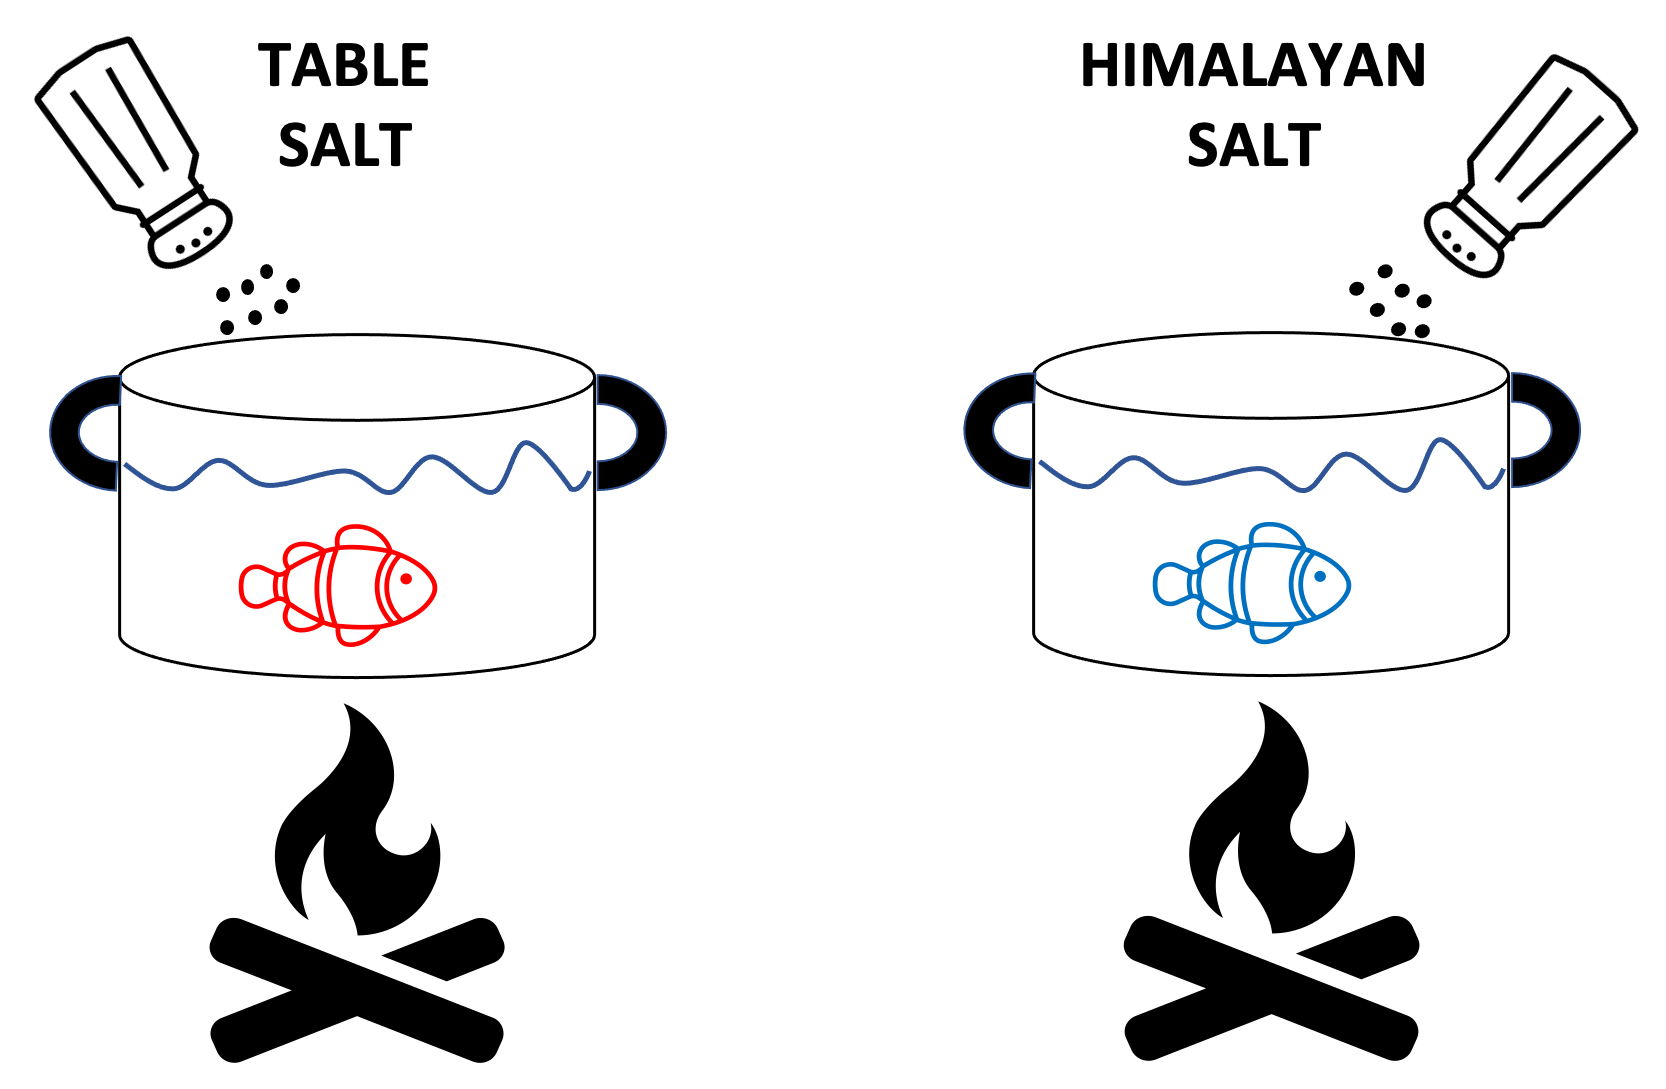
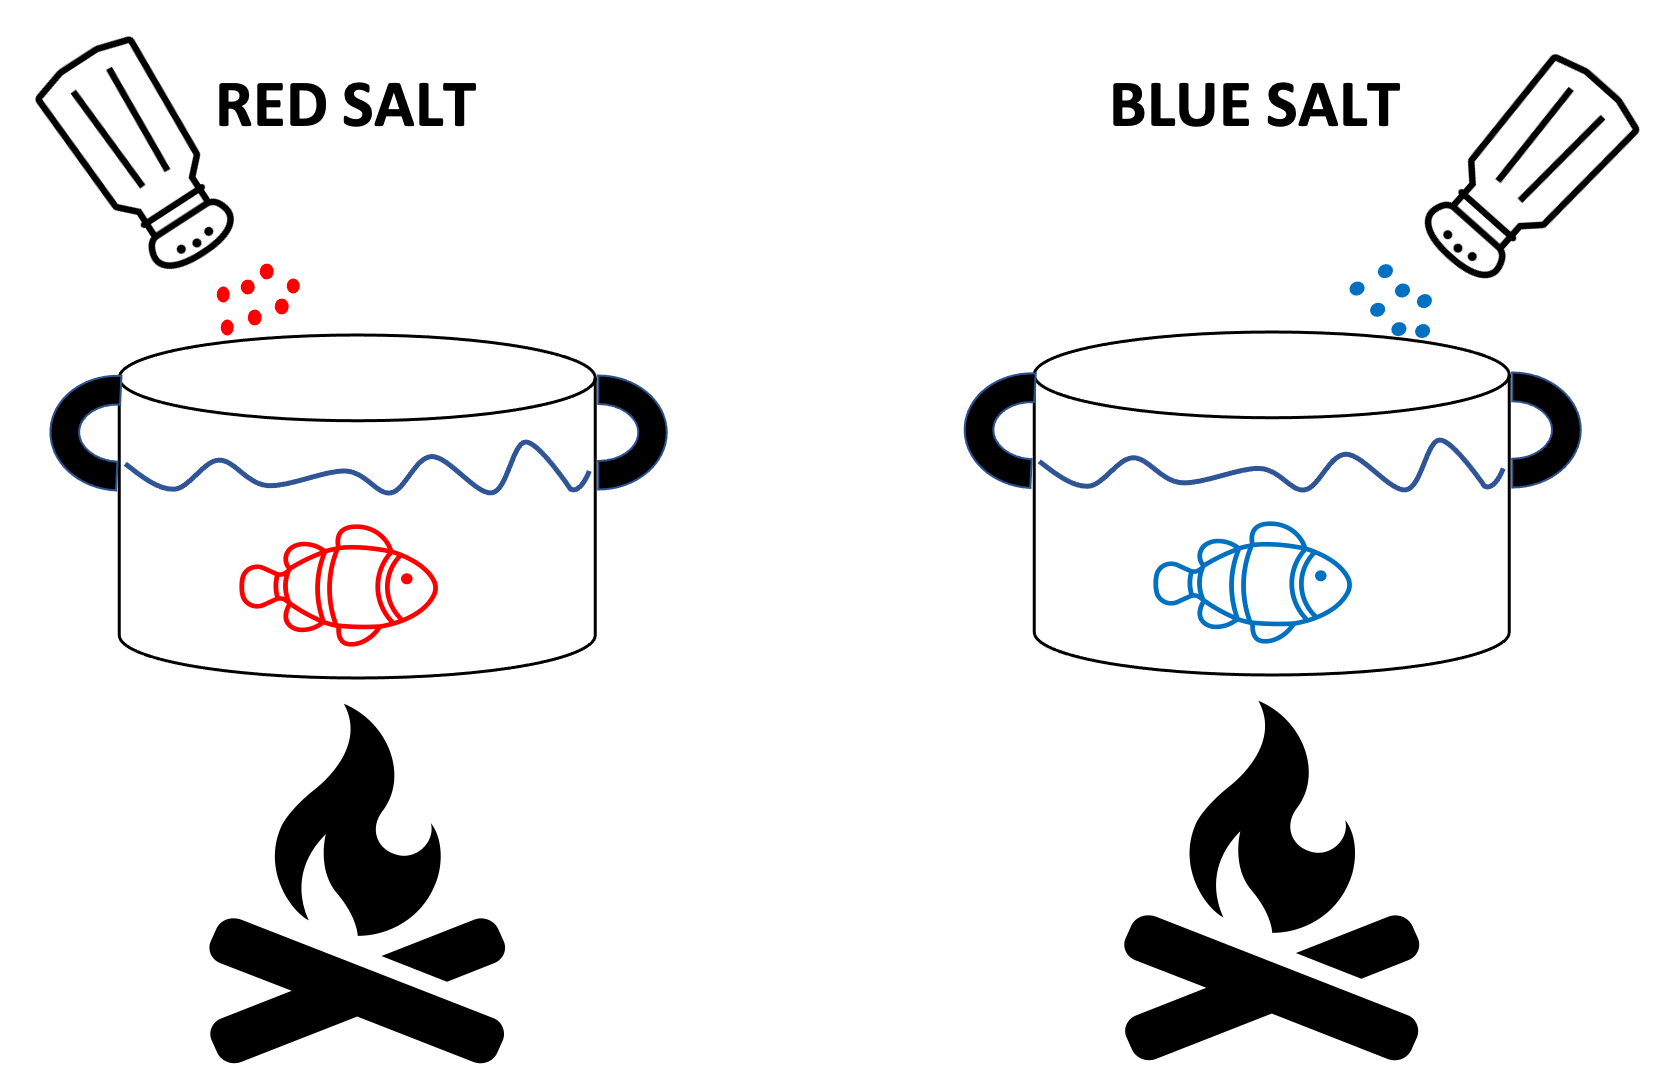
updates

diff --git a/client/src/containers/Ethics.js b/client/src/containers/Ethics.js
@@ -52,25 +52,22 @@ const Ethics = props => {
                 <h2>Information for the participants</h2>
                 <hr />
                 <div className={Classes.ParagraphContainer}>
-                    <p><b>Nature of the study.&nbsp;</b>You are about to participate in an experiment in which you will travel to fictional space stations to advice the local crew on how to cook space fish.  For each space station, you have to judge whether the station's local supplier travelled a blue or red planet to catch their fish. After the experiment, we will ask you to provide some basic demographics (e.g., age). Your session should last for around 10-15 minutes and your responses will be recorded. You will be given full instructions shortly and will be able to ask any questions you may have.</p>
+                    <p><b>Nature of the study.&nbsp;</b>In this experiment, you will travel to fictional space stations to advise the local crew on how to cook space fish. You will judge whether each station's local supplier travelled to a blue or red planet to catch their fish. After the experiment, we will ask you to provide some basic demographics (e.g., age). It should take around 10-15 minutes in total, and your responses will be recorded. You will be given full instructions shortly; you may contact the lead experimenter <a href="mailto:jp.franken@ed.ac.uk">jp.franken@ed.ac.uk</a> with any questions you may have.</p>
                 </div>
                 <div className={Classes.ParagraphContainer}>
-                    <p><b>Compensation.&nbsp;</b> You will be paid £1.00 for your participation + up to $£2.50 bonus based on your performance.</p>
+                    <p><b>Compensation.&nbsp;</b>You will be paid £1.00 for your participation + up to $£2.50 bonus based on your performance.</p>
                 </div>
                 <div className={Classes.ParagraphContainer}>
-                    <p><b>Risks and benefits.&nbsp;</b>There are no known risks to participation in this study. Other than the payment mentioned, there are no tangible benefits to you, however you will be contributing to our knowledge about information integration.</p>
+                    <p><b>Risks and benefits.&nbsp;</b>There are no known risks to participation in this study. Other than the payment mentioned, there are no tangible benefits to you, however you will be contributing to our knowledge about how people learn and reason.</p>
                 </div>
                 <div className={Classes.ParagraphContainer}>
-                    <p><b>Confidentiality and use of data.&nbsp;</b>All the information we collect during the course of the research will be processed in accordance with Data Protection Law. In order to safeguard your privacy, we will never share personal information (like names or dates of birth) with anyone outside the research team. Your data will be referred to by a unique participant number rather than by name. Please note that we will temporarily collect your worker ID to prevent repeated participation, however we will never share this information with anyone outside the research team. The anonymized data collected during this study will be used for research purposes only. With your permission, identifiable data such as recordings may also be used for research or teaching purposes, and may be shared with other researchers or with the general public (e.g., we may make it available through the world wide web, or use it in TV or radio broadcasts).</p>
-                </div>
+                    <p><b>Confidentiality and use of data.&nbsp;</b>All the information we collect during the course of the research will be processed in accordance with Data Protection Law. In order to safeguard your privacy, we will never share personal information (like names or dates of birth) with anyone outside the research team. Your data will be referred to by a unique participant number rather than by name. Please note that we will temporarily collect your worker ID to prevent repeated participation, however we will never share this information with anyone outside the research team. The anonymized data collected during this study will be used for research purposes only. With your permission, identifiable data such as recordings may also be used for research or teaching purposes, and may be shared with other researchers or with the general public (e.g., we may make it available through the world wide web, or use it in TV or radio broadcasts).</p></div>
                 <div className={Classes.ParagraphContainer}>
-                    <p><b>What are my data protection rights?&nbsp;</b>The University of Edinburgh is a Data Controller for the information you provide. You have the right to access information held about you. Your right of access can be exercised in accordance with Data Protection Law. You also have other rights including rights of correction, erasure and objection. For more details, including the right to lodge a complaint with the Information Commissioner’s Office, please visit www.ico.org.uk. Questions, comments and requests about your personal data can also be sent to the University Data Protection Officer at <a href="mailto:dpo@ed.ac.uk">dpo@ed.ac.uk</a>.</p>
-                </div>
+                    <p><b>What are my data protection rights?&nbsp;</b>What are my data protection rights? The University of Edinburgh is a Data Controller for the information you provide. You have the right to access information held about you. Your right of access can be exercised in accordance with Data Protection Law. You also have other rights including rights of correction, erasure and objection. For more details, including the right to lodge a complaint with the Information Commissioner's Office, please visit www.ico.org.uk. Questions, comments and requests about your personal data can also be sent to the University Data Protection Officer at dpo@ed.ac.uk.</p></div>
                 <div className={Classes.ParagraphContainer}>
-                    <p><b>Voluntary participation and right to withdraw.&nbsp;</b>Your participation is voluntary, and you may withdraw from the study at any time and for any reason. If you withdraw from the study during or after data gathering, we will delete your data and there is no penalty or loss of benefits to which you are otherwise entitled.</p>
-                    <p>If you have any questions about what you’ve just read, please feel free to ask, or contact us later. You can contact us by email at <a href="mailto:jp.franken@ed.ac.uk">jp.franken@ed.ac.uk</a>. This project has been approved by PPLS Ethics committee with the Ref No: 323-1819/1. If you have questions or comments regarding your own or your child’s rights as a participant, they can be contacted at 0131 650 4020 or <a href="mailto:ppls.ethics@ed.ac.uk">ppls.ethics@ed.ac.uk</a>.</p>
-                </div>
-
+                    <p><b>Voluntary participation and right to withdraw.&nbsp;</b> Your participation is voluntary, and you may withdraw from the study at any time and for any reason. If you withdraw from the study during or after data gathering, we will delete your data and there is no penalty or loss of benefits to which you are otherwise entitled.</p></div>
+                <div className={Classes.ParagraphContainer}>
+                    <p>If you have any questions about what you've just read, please feel free to ask, or contact us later. You can contact us by email at <a href="mailto:jp.franken@ed.ac.uk">jp.franken@ed.ac.uk</a>. This project has been approved by PPLS Ethics committee with the Ref No: 323-1819/1. If you have questions or comments regarding your own or your child's rights as a participant, they can be contacted at 0131 650 4020 or ppls.ethics@ed.ac.uk.</p></div>
                 <br></br>
 
                 <p>By accepting this HIT, you consent to the following:</p>

diff --git a/client/src/containers/Instruction/InsTask.js b/client/src/containers/Instruction/InsTask.js
@@ -26,7 +26,7 @@ const InsTask= props => {
                     
                 <img src={visitImage} alt="planet_visit"/>
                 
-                <p>To ensure that you give them the correct salt advice for as many fish as possible, you need to <b>decide</b> whether a local fish supplier travelled the RED or BLUE planet to catch their fish (Recall: Fish on the RED planet are mainly RED and have to be cooked with TABLE SALT; fish from the BLUE planet are mainly BLUE and have to be cooked with HIMALAYAN SALT). You will be paid a bonus of £0.25 each time you selected the correct planet (max. bonus = 5 space stations * £0.25 cent = £1.25).</p><br></br>
+                <p>To ensure that you give them the correct salt advice for as many fish as possible, you need to <b>decide</b> whether a local fish supplier travelled the RED or BLUE planet to catch their fish (Recall: Fish on the RED planet are mainly RED and have to be cooked with RED SALT; fish from the BLUE planet are mainly BLUE and have to be cooked with BLUE SALT). You will be paid a bonus of £0.25 each time you selected the correct planet (max. bonus = 5 space stations * £0.25 cent = £1.25).</p><br></br>
 
                 <p>On each space station, you first decide to cook one fish from the supplier's catch to get an initial idea about which planet the supplier might have travelled. To not waste your salt, you just cook the fish without salt.</p><br></br>  
                 
@@ -36,11 +36,11 @@ const InsTask= props => {
         
                 <img src={villagersImage} alt="villagers_cooking"/>
     
-                <p>Unfortunately, you are not allowed to enter the kitchen while the two crew members are inside, meaning that you can not observe the color of their fish or ask them about their beliefs about which planet the supplier travelled directly. However, each crew member can communicate their beliefs to you via their space headlights. Conveniently, space headlights happen to have two colour settings (blue and red) to communicate either belief (supplier travelld BLUE Planet, supplier travelled RED Planet). Space headlights also have three brightness settings (1, 2 and 3), allowing crew members to communicate how confident they are in their beliefs.</p><br></br>                
+                <p>Unfortunately, you are not allowed to enter the kitchen while the two crew members are inside, meaning that you can not observe the color of their fish or ask them about their beliefs about which planet the supplier travelled directly. However, each crew member can communicate their beliefs to you via their space headlights. Conveniently, space headlights happen to have two colour settings (blue and red) to communicate either belief (supplier travelld to the BLUE Planet, supplier travelled to the RED Planet). Space headlights also have three brightness settings (1, 2 and 3), allowing crew members to communicate how confident they are in their beliefs.</p><br></br>                
 
                 <p><b>Important:</b> While cooking, the two crew members might <b>talk to each other</b> and <b>influence</b> their beliefs. Thus, you will observe their belief signals <b>multiple times</b> and provide a guess about their relationships with each other. You will be paid an additional £0.25 each time you selected the correct relationship (max. bonus = 5 space stations * £0.25 cent = £1.25).</p><br></br>
 
-                <p><b>Important:</b> You <b>do not</b> know <b>when</b> the two crew members finish cooking their fish. Therefore, you need to pay careful attention to both their <b>belief signals and confidence</b> when finding out about their relationships with each other. Also, be aware that their beliefs <b>might not</b> always be informative as you might sometimes receive a signal from them before they finished cooking their fish.</p><br></br>
+                <p><b>Important:</b> You <b>do not</b> know when the two crew members have finished cooking their fish, and they might finish at different times. If they are communicating with each other, their signals could be based on what they have learned from the other person, in addition to, or instead of, what they have learned from their own fish.</p><br></br>
                 
                 <hr />
                 <Button clicked={props.goToInstruction}>Next</Button>

diff --git a/client/src/components/GameFrame/GameFrame.js b/client/src/components/GameFrame/GameFrame.js
@@ -32,7 +32,7 @@ const GameFrame = props => {
         setColorMessageB(scenario.neighbourBeliefs.ac[scoreCounter]);
         setColorMessageC(scenario.neighbourBeliefs.bc[scoreCounter]);
         setDisplayObserve('none');
-        setDisplayNext('');
+        setDisplayNext(''); 
     };
 
     const resetColors = () => {
@@ -166,12 +166,12 @@ const GameFrame = props => {
             </Agent>
 
             {/* agent B */}
-            <Agent color={colorB} opacity={scenario.neighbourBeliefs.ac[scoreCounter]/3} agent_id="B_2">{sayColorB}</Agent>
+            <Agent color={colorB} opacity={opacityB} agent_id="B_2">{sayColorB}</Agent>
             <Agent agent_id="B_2name">{scenario.neighbour1Name.name}</Agent>
 
             
             {/* agent C */}
-            <Agent color={colorC} opacity={scenario.neighbourBeliefs.bc[scoreCounter]/3} agent_id="C_2">{sayColorC}</Agent>
+            <Agent color={colorC} opacity={opacityC} agent_id="C_2">{sayColorC}</Agent>
             <Agent agent_id="C_2name">{scenario.neighbour2Name.name}</Agent>
 
             {/* score history */}

diff --git a/client/src/containers/Instruction/InsOverview.js b/client/src/containers/Instruction/InsOverview.js
@@ -39,7 +39,7 @@ const InsOverview = props => {
                 <img src={cookImage} alt="cooking"/><br></br><br></br><br></br>
 
                 <p>
-                    <b>Important:</b> RED fish have to be cooked with <b>TABLE SALT</b>, while BLUE fish have to be cooked with <b>HIMALAYAN SALT</b>. If cooked with the wrong salt or no salt, a fish will become <b>toxic</b> and thus inedible.</p><br></br>
+                    <b>Important:</b> RED fish have to be cooked with <b>RED SALT</b>, while BLUE fish have to be cooked with <b>BLUE SALT</b>. If cooked with the wrong salt or no salt, a fish will become <b>toxic</b> and thus inedible.</p><br></br>
 
                     <img src={saltImage} alt="salt"/><br></br><br></br><br></br>
                     
